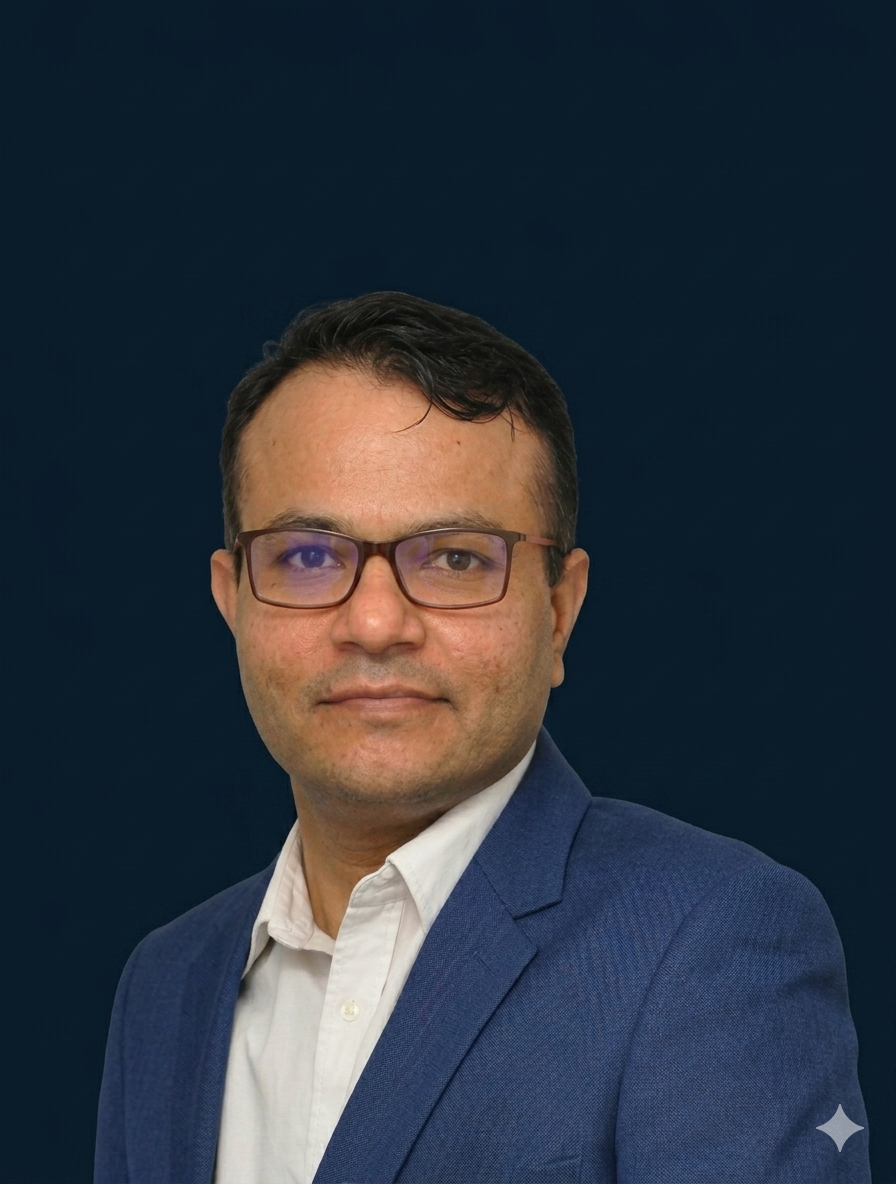
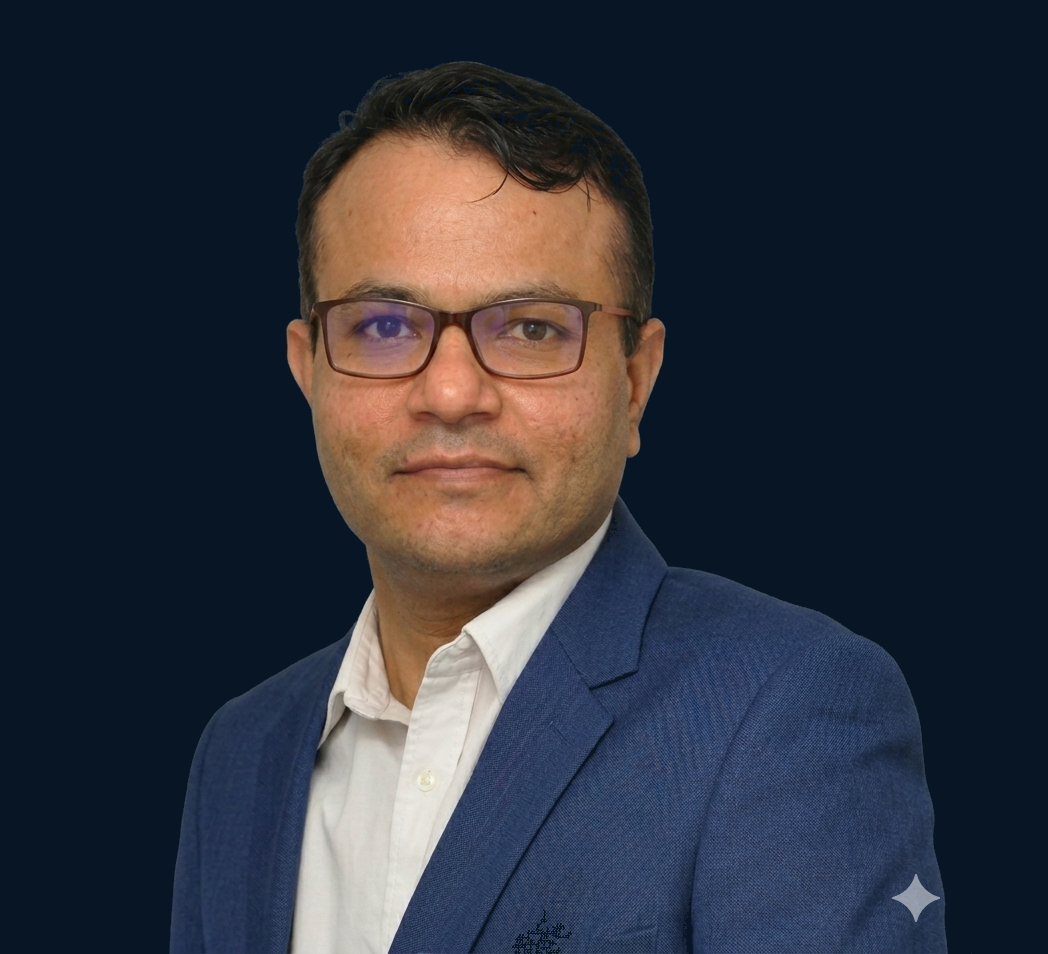
images placement changes

diff --git a/index.html b/index.html
@@ -376,14 +376,18 @@
   }
   .about-img-frame {
     width: 100%;
-    height: 520px;
     margin: 0;
-    background: transparent;
+    background: var(--navy);
     border: 1px solid rgba(201,164,101,0.2);
-    position: relative; overflow: hidden;
-    display: flex;
-    align-items: center;
-    justify-content: center;
+    position: relative;
+    overflow: hidden;
+  }
+  .about-img-media {
+    position: relative;
+    width: 100%;
+    overflow: hidden;
+    background: var(--navy);
+    line-height: 0;
   }
   .about-img-inner {
     width: 85%; height: 85%;
@@ -987,7 +991,7 @@
 
   /* ─── LOGO IMAGE ─── */
   .nav-logo-img {
-    height: 87px; width: auto; max-width: none; display: block;
+    height: 72px; width: auto; max-width: none; display: block;
   }
   .footer-logo-img {
     height: 96px; width: auto; display: block; margin-bottom: 16px;
@@ -995,17 +999,20 @@
   /* ─── VIPUL PHOTO ─── */
   .about-img-photo {
     width: 100%;
-    height: 100%;
+    height: auto;
+    max-width: none;
     display: block;
-    object-fit: cover;
-    object-position: left center;
-    background: transparent;
+    vertical-align: top;
   }
   .about-img-caption {
-    text-align: center; padding: 14px;
-    font-size: 13px; font-weight: 400; color: var(--gold);
-    letter-spacing: 0.08em; text-transform: uppercase;
-    background: var(--navy-mid);
+    text-align: center;
+    padding: 14px;
+    font-size: 13px;
+    font-weight: 400;
+    color: var(--gold);
+    letter-spacing: 0.08em;
+    text-transform: uppercase;
+    background: var(--navy);
     border-top: 1px solid rgba(201,164,101,0.15);
   }
 
@@ -1203,7 +1210,7 @@
 
   @media (max-width: 768px) {
     nav, nav.scrolled { height: 72px; padding: 0 20px; }
-    .nav-logo-img { height: 52px; width: auto; }
+    .nav-logo-img { height: 44px; width: auto; }
     .nav-toggle { display: flex; }
     .nav-backdrop { display: block; }
     body.nav-open .nav-backdrop { opacity: 1; visibility: visible; }
@@ -1285,7 +1292,6 @@
     .section-intro { font-size: 15px; }
 
     .about-grid { margin-top: 48px; gap: 40px; }
-    .about-img-frame { height: auto; min-height: 280px; }
     .about-badge {
       width: 88px; height: 88px;
       bottom: 12px; right: 12px;
@@ -1367,7 +1373,7 @@
 <div class="nav-backdrop" id="nav-backdrop" aria-hidden="true"></div>
 <nav id="main-nav" aria-label="Main navigation">
   <a class="nav-logo" href="#home" data-page="home" aria-label="Quantum Wills home">
-    <img src="assets/Quantum Wills Logo.png" alt="Quantum Wills &amp; Estate Planning — UK will writing and estate planning" class="nav-logo-img" width="200" height="87" fetchpriority="high" decoding="async">
+    <img src="assets/Quantum Wills Logo.png" alt="Quantum Wills &amp; Estate Planning — UK will writing and estate planning" class="nav-logo-img" width="166" height="72" fetchpriority="high" decoding="async">
   </a>
   <button type="button" class="nav-toggle" id="nav-toggle" aria-label="Open menu" aria-expanded="false" aria-controls="nav-menu">
     <span></span><span></span><span></span>
@@ -1707,13 +1713,15 @@
   <section style="background: var(--navy-mid);">
     <div class="about-grid fade-in">
       <div class="about-img-wrap">
-        <div class="about-img-frame" style="overflow:hidden; display:block; padding:0; border-radius:0;">
-          <img src="assets/Vipul.png" alt="Vipul, Director and CEO of Quantum Wills &amp; Estate Planning" class="about-img-photo" width="480" height="600" loading="lazy" decoding="async">
-          <div class="about-img-caption">Director &amp; CEO</div>
-          <div class="about-badge">
-            <div class="about-badge-num">7+</div>
-            <div class="about-badge-txt">Years<br>Trusted</div>
+        <div class="about-img-frame">
+          <div class="about-img-media">
+            <img src="assets/Vipul.png" alt="Vipul, Director and CEO of Quantum Wills &amp; Estate Planning" class="about-img-photo" width="1048" height="954" loading="lazy" decoding="async">
+            <div class="about-badge">
+              <div class="about-badge-num">7+</div>
+              <div class="about-badge-txt">Years<br>Trusted</div>
+            </div>
           </div>
+          <div class="about-img-caption">Director &amp; CEO</div>
         </div>
       </div>
       <div class="about-text">